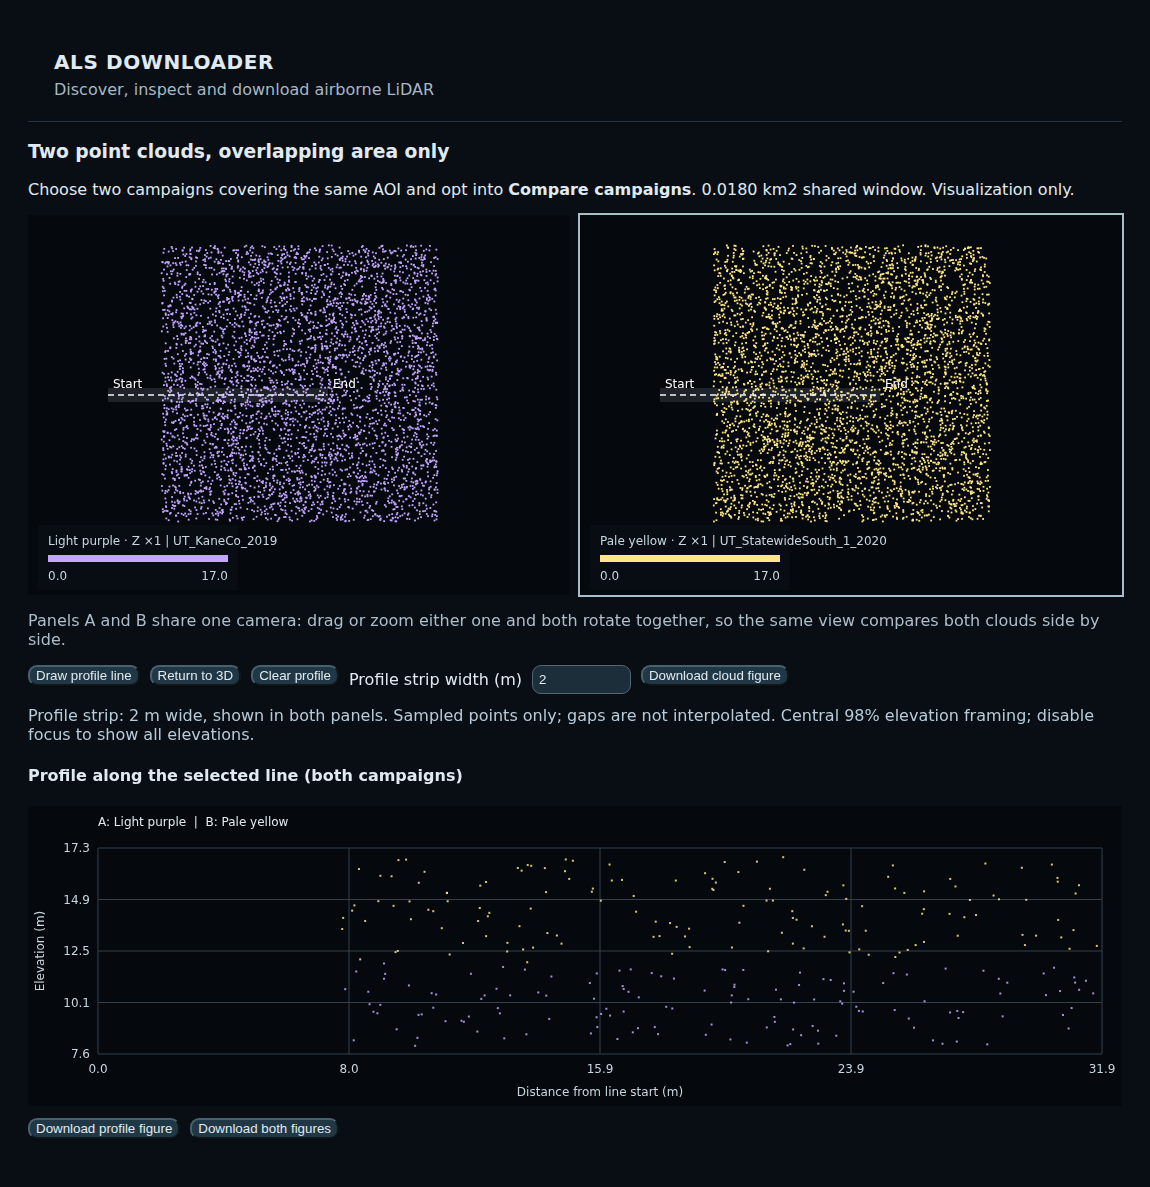
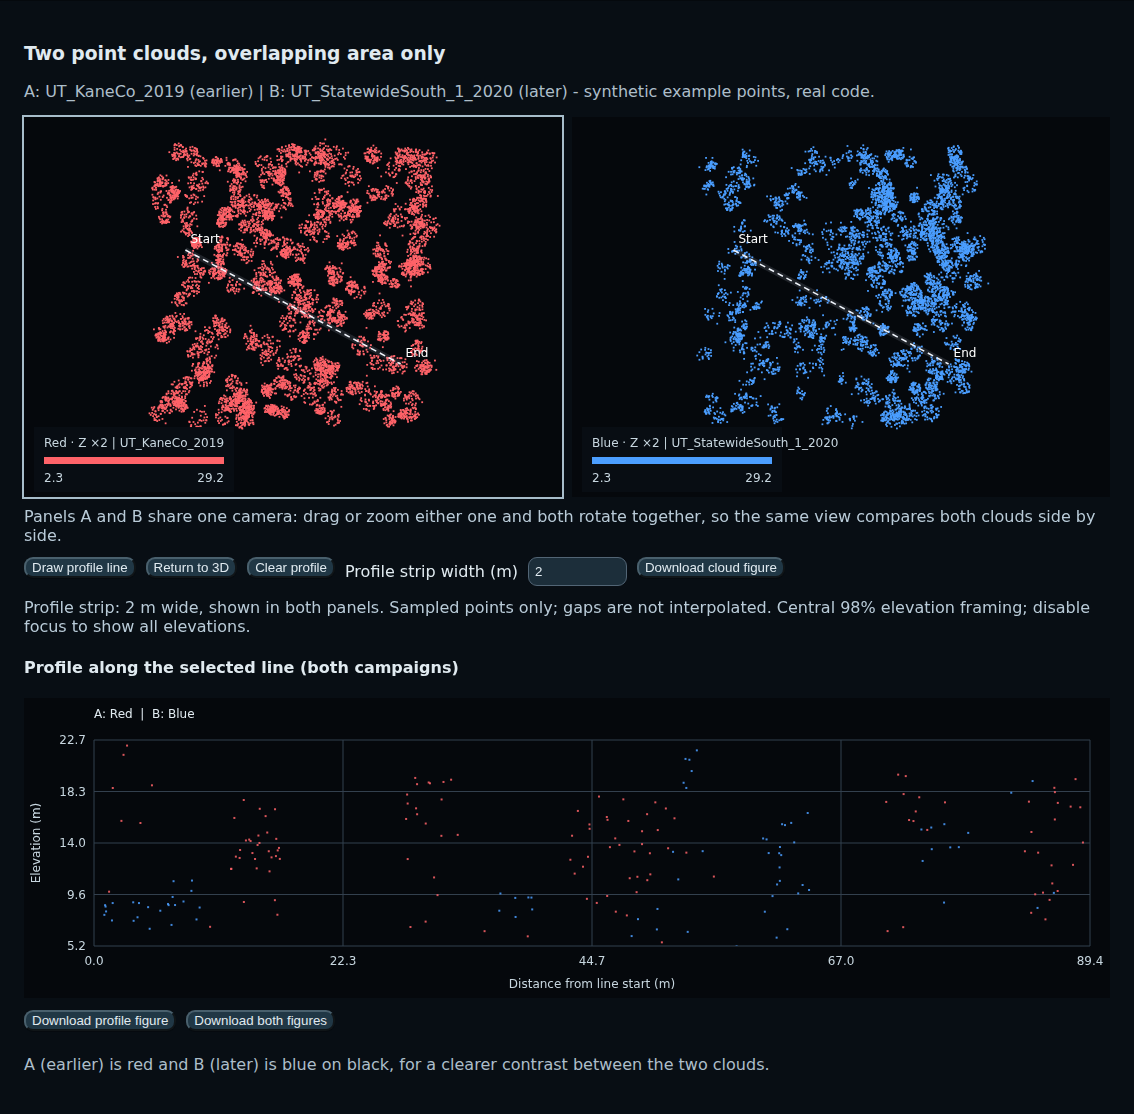
Default comparison to red/blue and fix the two globe/compare screenshots
The compare-campaigns default colours were light purple / pale yellow, low
contrast and hard to tell apart in a screenshot or on some displays.
Default to red (A) and blue (B) instead, both in the JS-side initial state
(inst/app/www/preview.js) and the R selectInput defaults
(R/comparison-app.R) so they agree from first load; every previous
palette, including light purple and pale yellow, is still selectable.

Regenerate both README screenshots against the real, current code:

- docs/images/interface-globe.png: was rotated toward Europe (to show the
  EU portal-country update); switched back to the app's actual default
  rotation, which already centers on Canada, USA and South America - no
  code change needed, the earlier screenshot just did not reflect what
  users see on first load.

- docs/images/interface-compare-campaigns.png: the previous synthetic
  example was too sparse to read as a point cloud and the two campaigns
  were hard to tell apart. Replaced it with a denser synthetic forest
  scene (scattered tree crowns over rolling terrain, ~220 trees per
  cloud) shaped like a thinned/shortened canopy in one half of campaign
  B, standing in for a real pre/post-storm pair near northwest
  Apalachicola, FL (the lead already tracked in
  docs/HURRICANE_MICHAEL.md) until a verified real pair is found. Still
  clearly labeled synthetic in the README caption and cross-referenced
  from HURRICANE_MICHAEL.md so it gets replaced once real data exists.
[…]

diff --git a/inst/app/www/preview.js b/inst/app/www/preview.js
@@ -82,7 +82,7 @@
   // one camera (rotation/zoom) and one profile-line selection drawn across both.
   function comparisonViewer(ca, cb) {
     let points=[],origin=[0,0,0],extent=[0,0,0],initialYaw=-.65,yaw=-.65,pitch=1.08,exag=1,zoom=1,drag=null;
-    let groups=[],palette='Light purple',paletteB='Pale yellow',showA=true,showB=true,focusCentral=true;
+    let groups=[],palette='Red',paletteB='Blue',showA=true,showB=true,focusCentral=true;
     let initialPitch=1.08,pointSize=1.8,labels=[],camera=null,crs='';
     let ordered=[],xmin=0,xmax=0,ymin=0,ymax=0,scale=1;
     const profile = window.ALSProfile ? window.ALSProfile([ca,cb],

diff --git a/docs/TEMPORAL_COMPARISON.md b/docs/TEMPORAL_COMPARISON.md
@@ -6,7 +6,7 @@ It does not calculate changes, differences, statistics or analysis exports.
 1. Draw or upload a study area and search the provider catalog.
 2. If the same AOI has at least two campaigns, open **Compare campaigns**, tick **I want to compare two point clouds in this study area**, and choose two distinct campaigns. Nothing is selected or loaded automatically. Provider dates are displayed unchanged.
 3. Choose a square side: **100 m** (default), **250 m**, **500 m**, or **1 km**. Choose **View overlapping clouds**. A window is placed inside the largest shared footprint and clipped to shared coverage and the AOI; near boundaries its visible area can be smaller. Draw a smaller AOI in Explore to choose the location. The automatic location is not guaranteed to be ecologically representative.
-4. Two side-by-side panels appear: A in **light purple** (left) and B in **pale yellow** (right), on black. Red and blue are also available. Choose the earlier/later ordering from provider metadata. The panels share one camera: rotate or zoom in either panel and both move together, so the same viewpoint compares both clouds. Hide either cloud independently with the Show A / Show B controls.
+4. Two side-by-side panels appear: A in **red** (left) and B in **blue** (right), on black. Light purple and pale yellow are also available. Choose the earlier/later ordering from provider metadata. The panels share one camera: rotate or zoom in either panel and both move together, so the same viewpoint compares both clouds. Hide either cloud independently with the Show A / Show B controls.
 5. Click **Draw profile line**. Both panels switch to plan view together. Click start and end in either panel, or drag, in any direction; the same line and strip are drawn in both panels automatically. A single horizontal profile opens immediately underneath, combining sampled points from both campaigns. Adjust the strip width (default 2 m) to include points near the line. The profile shows distance along the line and original elevation, using the same campaign colours and visibility controls. It uses the displayed sample, not the full-resolution cloud; gaps are left empty and missing campaigns are identified. No curves are fitted or differences calculated. Escape stops drawing; Clear profile removes the section from both panels. Loading another AOI/campaign pair clears it.
 6. Download the cloud figure (both panels stacked), profile figure or both as PNG. Exports include campaign labels, colours, framing and strip coordinates. They contain rendered figures only, with no point-data or analytical export. Profile elevation axes are not multiplied by the cloud's vertical exaggeration.
 

diff --git a/README.md b/README.md
@@ -66,11 +66,11 @@ The OpenTopography adapter follows the tile-index selection and download workflo
 
 ## 4. Compare campaigns and view a profile
 
-![Two side-by-side survey clouds on black (A light purple, B pale yellow), with their shared coloured elevation profile below](docs/images/interface-compare-campaigns.png)
+![Two side-by-side survey clouds on black (A red, B blue), with a visible canopy difference and their shared coloured elevation profile below](docs/images/interface-compare-campaigns.png)
 
-This figure uses synthetic example points to demonstrate the current two-panel layout and controls (real code, generated example data, not a captured survey); the labels shown (`UT_KaneCo_2019`, `UT_StatewideSouth_1_2020`) match the real Utah campaigns used elsewhere in this README.
+This figure uses synthetic example points to demonstrate the current two-panel layout and controls (real code, generated example data, not a captured survey); the labels shown (`UT_KaneCo_2019`, `UT_StatewideSouth_1_2020`) match the real Utah campaigns used elsewhere in this README. It is shaped like a stand-in for a real pre/post-storm pair near northwest Apalachicola, FL - campaign B is thinned and shortened in one half to illustrate the kind of canopy-loss contrast this feature is for, until a real verified pair from that area is available.
 
-Choose two campaigns covering the same AOI and opt into **Compare campaigns**. View a shared window with a side of 100 m to 1 km, shown as **two side-by-side panels** (A left, B right) sharing one camera: rotate or zoom either panel and both move together. The default colours are light purple (A) and pale yellow (B) on black; red and blue are also available.
+Choose two campaigns covering the same AOI and opt into **Compare campaigns**. View a shared window with a side of 100 m to 1 km, shown as **two side-by-side panels** (A left, B right) sharing one camera: rotate or zoom either panel and both move together. The default colours are red (A) and blue (B) on black, chosen for a clearer contrast between the two clouds; light purple, pale yellow and other palettes are also available.
 
 Click **Draw profile line** to switch both panels to a top-down view together, then click two endpoints (in either panel) or drag a segment in any direction; the same line appears in both automatically. A single profile of both sampled clouds appears below, using their colours and original elevations. Adjust the strip width, show/hide either campaign, return to 3D, or download the cloud, profile or both as PNG.
 

diff --git a/NEWS.md b/NEWS.md
@@ -20,3 +20,4 @@
 * Map every EU member state with a genuine official-portal link on the globe and map, even without an in-app adapter: add 20 portal-only (yellow) catalogue rows for Austria, Belgium (Wallonia and Flanders), Bulgaria, Croatia, Czechia, Denmark, Hungary, Ireland, Italy, Latvia, Lithuania, Luxembourg, Malta, Portugal, Romania, Slovakia, Slovenia, Spain and Sweden, each linking to a real official government or agency source page. Only Cyprus and Greece remain unmapped, since neither has a genuine official portal identified yet.
 * Add docs/DATASETS.md, a by-continent index of the full catalogue (generated by tools/update_source_docs.py alongside the existing source tables), so the README no longer needs to list every country. Trim the README's Source examples section to its eight most representative entries, pointing to the new by-region index for the complete list.
 * Rename "Submit a data source" to "Share your dataset" and rewrite its form in a warmer, more encouraging voice (intro text, field placeholders, validation messages) so contributing data feels approachable rather than bureaucratic. Add an optional "what kind of dataset is this" tag (country-wide, national/regional agency, or local/campus survey) that rides along in the request but is never required. All nine required fields and their validation rules are unchanged.
+* Change the campaign-comparison default colours from light purple/pale yellow to red/blue for a clearer visual contrast between the two panels (still user-selectable; all previous palettes remain available). Regenerate the README's compare-campaigns screenshot with a denser, more realistic synthetic forest-canopy example (tree crowns over rolling terrain, not sparse random points) shaped like a thinned/shortened canopy in one half, standing in for a real pre/post-storm pair near northwest Apalachicola, FL until one is verified. Regenerate the README's globe screenshot at the app's actual default rotation (Canada, USA and South America), matching what users see on first load.

diff --git a/docs/HURRICANE_MICHAEL.md b/docs/HURRICANE_MICHAEL.md
@@ -63,3 +63,9 @@ the grouped campaign list under **Compare campaigns** for two distinct
 projects whose collection intervals straddle October 2018. If a real pair
 turns up,
 record its exact campaign labels, AOI and a screenshot here.
+
+The README's compare-campaigns screenshot (`docs/images/interface-compare-campaigns.png`)
+currently uses a synthetic stand-in shaped like this scenario - a thinned,
+shortened canopy in half of a synthetic 100 m tile, red vs. blue - clearly
+labeled as synthetic in the README caption, not real Apalachicola data.
+Replace it with a real render once a verified pair from this area is found.
